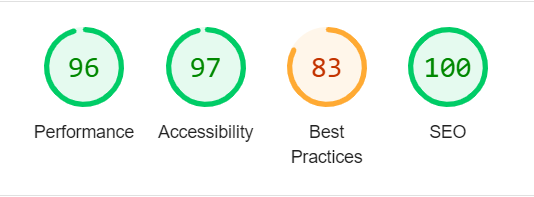
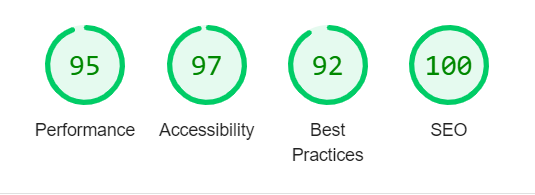
readme: dcument lighthouse testing

diff --git a/TESTING.md b/TESTING.md
@@ -19,5 +19,47 @@
 
 ### Lighthouse
 
+| index / liked posts / trending posts |
+| :-: |
+| ![index](/readme-assets/testing/lighthouse/index.png) |
+| All 3 pages use the same component, so return the same results: |
+| Performance is dropped into orange due to the fact the page allows for users to upload their own images, although there is a filesize restriction, this still allows for upload of images that lighthouse considers to be a heavy payload when stacked with multiple images on a page. |
+
+| Registration Page |
+| :-: |
+| ![registration](/readme-assets/testing/lighthouse/registration.png) |
+| no issues |
+
+| Log in page |
+| :-: |
+| ![login](/readme-assets/testing/lighthouse/login.png) |
+| no issues |
+
+| Post Page |
+| :-: |
+| ![Post Page](/readme-assets/testing/lighthouse/post-page.png) |
+| performance is dropped due to the nature of user-uploaded images not being optimised for display. | 
+| Best practices dropped to 75 due to lighthouse not recognising image size style rules being determined by react component props |
+
+| Create Post Page |
+| :-: |
+| ![Create Post](/readme-assets/testing/lighthouse/create-post.png) |
+| no issues |
+
+| Edit Post Page |
+| :-: |
+| ![Edit Post](/readme-assets/testing/lighthouse/edit-post.png) |
+| performance is dropped due to the nature of user-uploaded images not being optimised for display. |
+
+| Profile List Page |
+| :-: |
+| ![Profile List](/readme-assets/testing/lighthouse/profile-list.png) |
+| Best practices dropped to 75 due to lighthouse not recognising image size style rules being determined by react component props |
+
+| Profile Page |
+| :-: |
+| ![Profile Page](/readme-assets/testing/lighthouse/profile-page.png) |
+| No Issues |
+
 
 ## Manual Testing
